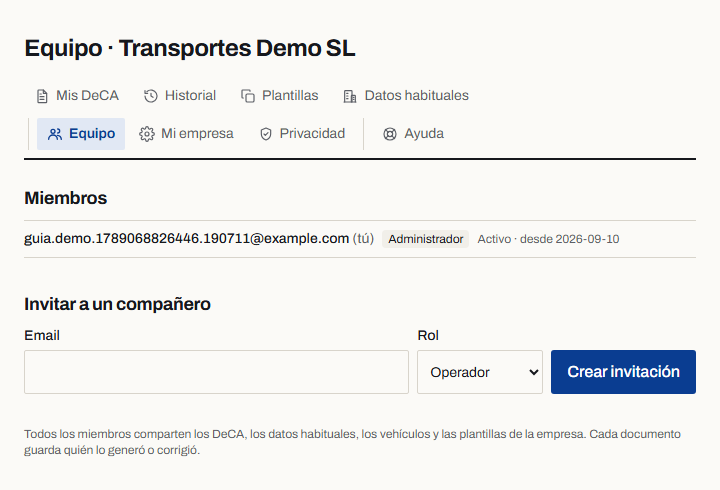
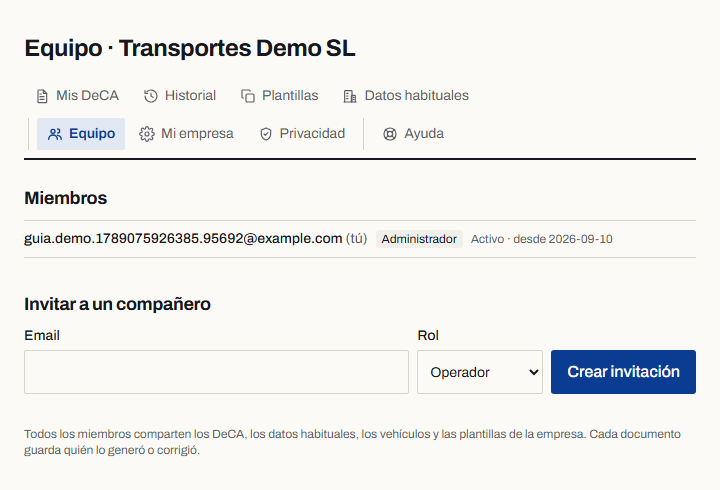
feat: DECA Conecta — guide section + wizard label + screenshots (D-201b)
- prisma/content/guia-de-uso.ts: "## Oportunidades de carga" replaced by
  "## DECA Conecta: recibe oportunidades de carga compatibles con tus rutas"
  (the task's exact copy: how it works, activation at sign-up, the 3 privacy
  options, data used / not shared incl. GPS, what happens on an opportunity,
  the "facilita el contacto pero no garantiza" closing). Privacidad section
  intro + 2 FAQ entries updated. Internal link to the article with anchor
  "Cómo reducir kilómetros en vacío con DECA Conecta".
- t.crear.commercialShare.legend (x8): "Tratamiento comercial (opcional)" ->
  "DECA Conecta (opcional)" — label only, no behaviour change.
- scripts/guide-screenshots.mjs: + deca-conecta-registro.png,
  deca-conecta-por-deca.png (per-DeCA control, unchecked by default);
  privacidad.png re-captured. Synthetic demo data, no personal/prod data.

Verified: guia-uso 3/3, content-cms 6/6, commercial-consent 23/23.
tsc / eslint / prettier / keel-verify clean; 394 unit; build OK.

Claude-Session: https://claude.ai/code/session_01AdGEWf3fw878dANwynJTQh

Changed region(s): [[0.1833, 0.4592, 0.8556, 0.5204]]

diff --git a/prisma/content/guia-de-uso.ts b/prisma/content/guia-de-uso.ts
@@ -44,14 +44,14 @@ Puedes generar tu **primer** DeCA sin cuenta: se te pedirá solo el nombre y el 
 2. Indica tu **correo** y una **contraseña**.
 3. Completa la **ficha de empresa**: razón social, **NIF/CIF**, dirección, código postal, localidad y una persona de contacto con teléfono y correo.
 4. Marca la aceptación de la **Política de Privacidad** y las **Condiciones**. Es obligatorio.
-5. De forma **opcional**, puedes activar la casilla de **Oportunidades de carga** (ver la sección correspondiente).
+5. De forma **opcional**, puedes activar **DECA Conecta** marcando «Avísame si aparece una oportunidad de carga compatible con mis rutas» (ver la sección **DECA Conecta**).
 6. Crea la cuenta. Te enviamos un correo para **verificar tu dirección**; hasta que lo hagas verás un aviso en el panel, pero ya puedes trabajar.
 
 ### Con Google
 
 1. Pulsa **Continuar con Google** y elige tu cuenta.
 2. Como Google ya confirma tu correo, no hay que verificarlo aparte.
-3. A continuación aparece **«Ya casi está»**: completa la **ficha de empresa** (los mismos datos que arriba), acepta la Política de Privacidad y las Condiciones y, si quieres, activa **Oportunidades de carga**.
+3. A continuación aparece **«Ya casi está»**: completa la **ficha de empresa** (los mismos datos que arriba), acepta la Política de Privacidad y las Condiciones y, si quieres, activa **DECA Conecta**.
 4. Pulsa continuar y entras directamente en tu panel.
 
 ### Verificación de empresa
@@ -223,28 +223,68 @@ Solo el **administrador** de la empresa edita esta información.
 
 ## Privacidad
 
-En **Privacidad y comunicaciones** decides una sola cosa: si DeCA Profesional puede comunicar **unos pocos datos de disponibilidad de tus portes** a cargadores interesados en enviarte propuestas de carga.
+En **Privacidad** decides una sola cosa: si activas **DECA Conecta**, es decir, si DeCA Profesional puede comunicar **unos pocos datos de disponibilidad de tus portes** a cargadores interesados en enviarte propuestas de carga.
 
 - Es **voluntario** y se puede cambiar cuando quieras.
-- No autorizarlo **no afecta en nada** al uso gratuito de la plataforma.
+- No activarlo **no afecta en nada** a la creación, gestión o conservación de tus DeCA ni al uso gratuito de la plataforma.
 - Opciones: **no compartir en ningún porte** (por defecto), **preguntarme en cada DeCA**, o **compartir en todos los portes salvo que lo desactive** en uno concreto.
 
-La aceptación de la **Política de Privacidad** y de las **Condiciones** (obligatoria al registrarse) es distinta de esta preferencia comercial, que siempre es opcional.
+La aceptación de la **Política de Privacidad** y de las **Condiciones** (obligatoria al registrarse) es distinta de DECA Conecta, que siempre es opcional y que aceptar la parte legal nunca activa.
 
-![Privacidad y comunicaciones](/guia/privacidad.png "Preferencia de tratamiento comercial")
+![Opciones de privacidad de DECA Conecta](/guia/privacidad.png "Puedes decidir si no compartes, si eliges en cada DeCA o si lo activas habitualmente.")
 
-## Oportunidades de carga
+## DECA Conecta: recibe oportunidades de carga compatibles con tus rutas
 
-Es una función **opcional y separada** de la generación de DeCA. Si la activas, se prepara una pequeña ficha de **disponibilidad** para que cargadores interesados puedan hacerte propuestas de carga.
+DECA Conecta es una función **opcional** de DeCA Profesional que utiliza, con tu autorización, el **destino y la fecha** de tus portes para que puedas recibir propuestas comerciales personalizadas de cargadores interesados. El objetivo es ayudarte a encontrar **cargas de retorno** y **reducir kilómetros en vacío** sin publicar tu DeCA ni compartir la ubicación GPS del vehículo.
 
-- Se activa/desactiva desde **Privacidad** (o con la casilla opcional al registrarte).
-- Según la opción elegida, se aplica a **todos** los portes, **a ninguno**, o **te pregunta en cada DeCA**.
-- Puedes desactivarla en un porte concreto antes de emitirlo, y cambiar la preferencia general en cualquier momento.
-- **No** es necesaria para crear, descargar ni conservar DeCA.
+### Activar DECA Conecta al crear la cuenta
+
+![Activar DECA Conecta al crear una cuenta en DeCA Profesional](/guia/deca-conecta-registro.png "Activación voluntaria durante el registro.")
+
+Al registrarte puedes marcar, de forma voluntaria, la casilla **«Avísame si aparece una oportunidad de carga compatible con mis rutas»**.
+
+- La casilla está **desmarcada por defecto**.
+- Aceptar la **Política de Privacidad** y las **Condiciones** **no activa** DECA Conecta.
+- Puedes crear y gestionar tus DeCA con normalidad sin activarla.
+- La preferencia se puede cambiar más tarde desde **Privacidad**.
+
+### Configurar DECA Conecta desde Privacidad
+
+En **Privacidad** eliges una de estas tres opciones, tal como aparecen en la interfaz:
+
+1. **No compartir en ningún porte** — ningún dato comercial sale de tus DeCA. Es la opción predeterminada.
+2. **Preguntarme en cada DeCA** — lo decides porte a porte al crear cada DeCA. El control aparece desactivado por defecto.
+3. **Compartir en todos los portes, salvo que lo desactive** — se prepara la disponibilidad para cada nuevo DeCA, pero puede desactivarse en cualquier porte concreto antes de emitirlo.
+
+![Activar oportunidades de carga para un DeCA concreto](/guia/deca-conecta-por-deca.png "La disponibilidad de cada porte puede permanecer desactivada.")
+
+### Qué datos utiliza DECA Conecta
+
+Para buscar oportunidades utiliza:
+
+- El **lugar de destino** del camión.
+- La **fecha** del transporte o de disponibilidad prevista.
+- La **empresa o el nombre** y el **correo electrónico o el teléfono** que hayas autorizado para recibir la propuesta.
+
+No comparte:
+
+- El DeCA completo.
+- El origen del porte actual.
+- La mercancía ni su peso.
+- La identidad del cliente del transporte.
+- El precio ni las condiciones del servicio.
+- Los documentos asociados.
+- La ubicación GPS ni el seguimiento del vehículo en tiempo real.
+
+### Qué ocurre cuando aparece una oportunidad
+
+Puedes recibir una propuesta comercial personalizada de un cargador interesado. Recibirla **no te obliga a aceptarla**: eres libre de rechazarla o de negociar la ruta, el precio, los horarios, la mercancía, los requisitos del vehículo y el resto de condiciones contractuales.
 
 ::: important
-Oportunidades de carga es independiente del DeCA. Puedes usar toda la plataforma sin activarla.
+DECA Conecta facilita el contacto, pero no garantiza que exista una carga compatible ni sustituye la contratación del nuevo transporte.
 :::
+
+Más detalle sobre el modelo de privacidad y el ahorro de kilómetros en vacío: [Cómo reducir kilómetros en vacío con DECA Conecta](/blog/deca-conecta-ofertas-carga).
 
 ## Ayuda y soporte
 
@@ -308,10 +348,10 @@ Q: ¿Cómo contacto con soporte?
 A: Desde Ayuda: WhatsApp, correo (deca@praetoriaabogados.es) o el formulario de incidencia.
 Q: ¿Cómo abro una incidencia?
 A: En Ayuda, «Abrir una incidencia técnica»: categoría, asunto y descripción. La verás en Mis incidencias y recibirás la respuesta por correo y allí.
-Q: ¿Qué datos se comparten en Oportunidades de carga?
-A: Unos pocos datos de disponibilidad de tus portes, solo si activas la función; nunca el contenido de tus DeCA.
-Q: ¿Puedo desactivar Oportunidades de carga?
-A: Sí, en cualquier momento desde Privacidad, y también en un porte concreto antes de emitirlo.
+Q: ¿Qué datos se comparten en DECA Conecta?
+A: Solo el destino y la fecha del porte, y la empresa o el nombre y el correo o teléfono que autorices; nunca el DeCA completo, el origen, la mercancía, el precio ni la ubicación GPS. Solo si activas la función.
+Q: ¿Puedo desactivar DECA Conecta?
+A: Sí, en cualquier momento desde Privacidad, y también en un porte concreto antes de emitirlo. Desactivarlo no afecta a tus DeCA ni al uso gratuito de la plataforma.
 Q: ¿Qué hago durante una inspección?
 A: Localiza el DeCA en Mis DeCA, abre el PDF o muestra el QR; se abre sin registro. Si hubo corrección, enseña la versión vigente.
 :::

diff --git a/lib/i18n/dictionaries/fr.ts b/lib/i18n/dictionaries/fr.ts
@@ -903,7 +903,7 @@ export const fr = {
       commercialShareOff: "Non",
     },
     commercialShare: {
-      legend: "Traitement commercial (facultatif)",
+      legend: "DECA Conecta (facultatif)",
       hint: "Si vous le souhaitez, autorisez l'envoi des informations minimales de disponibilité de ce transport pour recevoir des propositions personnalisées de fret. Le refus n'affecte pas l'usage gratuit de DeCA Profesional.",
       enable: "Je souhaite recevoir des propositions personnalisées à la fin de ce transport",
       destination: "Destination ou zone de disponibilité",

diff --git a/lib/i18n/dictionaries/de.ts b/lib/i18n/dictionaries/de.ts
@@ -905,7 +905,7 @@ export const de = {
       commercialShareOff: "Nein",
     },
     commercialShare: {
-      legend: "Kommerzielle Verarbeitung (optional)",
+      legend: "DECA Conecta (optional)",
       hint: "Erlauben Sie bei Bedarf das Senden der minimalen Verfügbarkeitsdaten dieses Transports, um personalisierte Frachtangebote zu erhalten. Eine Ablehnung wirkt sich nicht auf die kostenlose Nutzung von DeCA Profesional aus.",
       enable: "Ich möchte am Ende dieses Transports personalisierte Angebote erhalten",
       destination: "Zielort oder Verfügbarkeitsgebiet",

diff --git a/lib/i18n/dictionaries/it.ts b/lib/i18n/dictionaries/it.ts
@@ -886,7 +886,7 @@ export const it = {
       commercialShareOff: "No",
     },
     commercialShare: {
-      legend: "Trattamento commerciale (facoltativo)",
+      legend: "DECA Conecta (facoltativo)",
       hint: "Se vuoi, autorizza l'invio dei dati minimi di disponibilità di questo trasporto per ricevere proposte personalizzate di carico. Non autorizzarlo non incide sull'uso gratuito di DeCA Profesional.",
       enable: "Voglio ricevere proposte personalizzate al termine di questo trasporto",
       destination: "Destinazione o zona di disponibilità",

diff --git a/lib/i18n/dictionaries/eu.ts b/lib/i18n/dictionaries/eu.ts
@@ -908,7 +908,7 @@ export const eu = {
       commercialShareOff: "Ez",
     },
     commercialShare: {
-      legend: "Merkataritza-tratamendua (aukerakoa)",
+      legend: "DECA Conecta (aukerakoa)",
       hint: "Nahi izanez gero, baimendu garraio honen eskuragarritasun-datu minimoak bidaltzea, karga-proposamen pertsonalizatuak jasotzeko. Ez baimentzeak ez dio eragiten DeCA Profesional doan erabiltzeari.",
       enable: "Garraio hau amaitzean proposamen pertsonalizatuak jaso nahi ditut",
       destination: "Helmuga edo eskuragarritasun-eremua",

diff --git a/lib/i18n/dictionaries/ca.ts b/lib/i18n/dictionaries/ca.ts
@@ -886,7 +886,7 @@ export const ca = {
       commercialShareOff: "No",
     },
     commercialShare: {
-      legend: "Tractament comercial (opcional)",
+      legend: "DECA Conecta (opcional)",
       hint: "Si vols, autoritza l'enviament de les dades mínimes de disponibilitat d'aquest port per rebre propostes personalitzades de càrrega. No autoritzar-ho no afecta l'ús gratuït de DeCA Profesional.",
       enable: "Vull rebre ofertes personalitzades en finalitzar aquest port",
       destination: "Destinació o zona de disponibilitat",

diff --git a/lib/i18n/dictionaries/es.ts b/lib/i18n/dictionaries/es.ts
@@ -893,7 +893,7 @@ export const es = {
       commercialShareOff: "No",
     },
     commercialShare: {
-      legend: "Tratamiento comercial (opcional)",
+      legend: "DECA Conecta (opcional)",
       hint: "Si quieres, autoriza el envío de los datos mínimos de disponibilidad de este porte para recibir propuestas personalizadas de carga. No autorizarlo no afecta al uso gratuito de DeCA Profesional.",
       enable: "Quiero recibir ofertas personalizadas al finalizar este porte",
       destination: "Destino o zona de disponibilidad",

diff --git a/lib/i18n/dictionaries/gl.ts b/lib/i18n/dictionaries/gl.ts
@@ -891,7 +891,7 @@ export const gl = {
       commercialShareOff: "Non",
     },
     commercialShare: {
-      legend: "Tratamento comercial (opcional)",
+      legend: "DECA Conecta (opcional)",
       hint: "Se queres, autoriza o envío dos datos mínimos de dispoñibilidade deste porte para recibir propostas personalizadas de carga. Non autorizalo non afecta o uso gratuíto de DeCA Profesional.",
       enable: "Quero recibir ofertas personalizadas ao rematar este porte",
       destination: "Destino ou zona de dispoñibilidade",

diff --git a/lib/i18n/dictionaries/en.ts b/lib/i18n/dictionaries/en.ts
@@ -871,7 +871,7 @@ export const en = {
       commercialShareOff: "No",
     },
     commercialShare: {
-      legend: "Commercial processing (optional)",
+      legend: "DECA Conecta (optional)",
       hint: "If you wish, authorise sending the minimal availability details of this job to receive personalised freight offers. Not authorising it does not affect your free use of DeCA Profesional.",
       enable: "I want to receive personalised offers when this job ends",
       destination: "Destination or availability area",

diff --git a/docs/decisions.md b/docs/decisions.md
@@ -6390,3 +6390,35 @@ OK.
 **Still to do in follow-up (this D-entry covers the UI + i18n + tests only):** the guide section
 + new guide screenshots (D-201b), the published SEO article's screenshots + internal-link block
 (prod CMS, `/admin/blog`), the Guides-section DECA Conecta card, and the featured/OG image.
+
+## D-201b — DECA Conecta: guide section + wizard label + screenshots (2026-09-10)
+
+Follow-up to D-201, completing the guide + per-DeCA surface.
+
+- **`prisma/content/guia-de-uso.ts`:** the "## Oportunidades de carga" section is replaced by
+  "## DECA Conecta: recibe oportunidades de carga compatibles con tus rutas" with the user's
+  exact copy — intro (cargas de retorno / reducir kilómetros en vacío / no GPS), "Activar DECA
+  Conecta al crear la cuenta" (unchecked by default; legal acceptance ≠ activation), "Configurar
+  DECA Conecta desde Privacidad" (the 3 real options verbatim), "Qué datos utiliza DECA Conecta"
+  (destination + date + authorised company/contact; the full "no comparte" list incl. GPS), "Qué
+  ocurre cuando aparece una oportunidad" (not obliged to accept; free to negotiate) + the closing
+  "DECA Conecta facilita el contacto, pero no garantiza…". The Privacidad section intro and the
+  two FAQ entries updated. Internal link to the article with the anchor "Cómo reducir kilómetros
+  en vacío con DECA Conecta" → `/blog/deca-conecta-ofertas-carga`.
+- **Wizard per-DeCA control** (`t.crear.commercialShare.legend`, 8 locales): "Tratamiento
+  comercial (opcional)" → "DECA Conecta (opcional)". No behaviour change.
+- **Screenshots** (`scripts/guide-screenshots.mjs` extended): `deca-conecta-registro.png` (the
+  registration card), `deca-conecta-por-deca.png` (the per-DeCA control, unchecked by default),
+  and `privacidad.png` re-captured to show the new DECA Conecta privacy card. Synthetic demo
+  company, no personal/production data. ALT texts + captions per the task.
+
+**Verified:** `guia-uso.spec.ts` 3/3, `content-cms.spec.ts` 6/6, `commercial-consent.spec.ts`
+23/23. tsc / eslint / prettier / keel-verify clean; 394 unit; production build OK.
+
+**Production:** the guide's prod CMS row is updated with the new body via a targeted
+`contentItem.update` (below); the 2 NEW guide screenshots (`deca-conecta-registro.png`,
+`deca-conecta-por-deca.png`) are static assets that go live on the **next Hostinger redeploy** —
+until then they 404 and render as their ALT text (the new renderer degrades gracefully; no hang).
+
+**Still open (task sections 12–14):** the published article's own screenshots + internal-link
+block (`/admin/blog`), the Guides-section DECA Conecta card, the featured/OG image.

diff --git a/docs/token-ledger.md b/docs/token-ledger.md
@@ -47,3 +47,4 @@ AI cost mode: subscription (Claude Code) — marginal cost ≈ €0.
 | 2026-09-10 | Maintenance — D-200: Planes 2027 launch badge — dropped the "Ahora:" prefix (8 locales), and made placement breakpoint-aware (< md: below H2 + centred, on its own line; ≥ md: right of the heading row). Pill styling unchanged. New responsive e2e test (320/375/390/430 + 1024/1280/1440). | claude-sonnet-5 | ~2M | tsc + eslint + prettier + keel-verify clean; 394 unit; plans e2e 10/10 |
 | 2026-09-10 | Maintenance — user instructions (D-199/D-200 close): merged `develop`→`main` in two steps (#111 `90cdb48`, D-200 `5f33937`), all CI green; verified production `prisma migrate status` directly = 39/39 (no gap, nothing to apply); seeded the guide into production (1 row, verified rendering + 19 links 200); Planes 2027 badge copy+responsive (D-200). Prod DB password re-exposed in chat — D-158 rotation now urgent. | claude-sonnet-5 | ~3M | tsc + eslint + prettier + keel-verify clean; 394 unit; plans e2e 10/10; CI green on `main` through 5f33937; production live-verified |
 | 2026-09-10 | Maintenance — D-201: "DECA Conecta" rename (UI/copy/branding/i18n). Registration card + /panel/privacidad restructured (OPCIONAL badge, tagline, expanded info, Destinatarios/Finalidad/Revocación), all 8 locales, terminology sweep (admin nav/pages, legal-page h2 leads with the brand, code comments). Zero backend/DB change — 3 stored modes + audit + API contracts preserved. 5 new + 18 existing consent tests green (23/23). Guide section + article screenshots + OG image = follow-up. | claude-sonnet-5 | ~8M | tsc + eslint + prettier + keel-verify clean; 394 unit; commercial-consent 23/23; admin-rsc-authz 19/19; production build OK |
+| 2026-09-10 | Maintenance — D-201b: guide "## DECA Conecta" section (task's exact copy) replacing "Oportunidades de carga", wizard per-DeCA legend → "DECA Conecta (opcional)" (8 locales), 2 new + 1 re-captured guide screenshots. Guide prod CMS row updated in place (targeted update, no reseed/dup). New screenshots go live on the next redeploy. | claude-sonnet-5 | ~3M | tsc + eslint + prettier + keel-verify clean; 394 unit; guia-uso 3/3 + content-cms 6/6 + commercial-consent 23/23; build OK |
